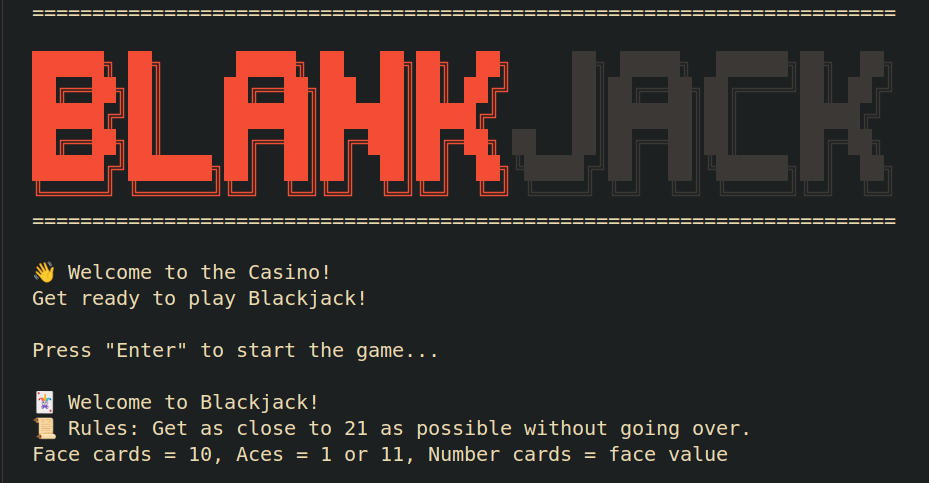
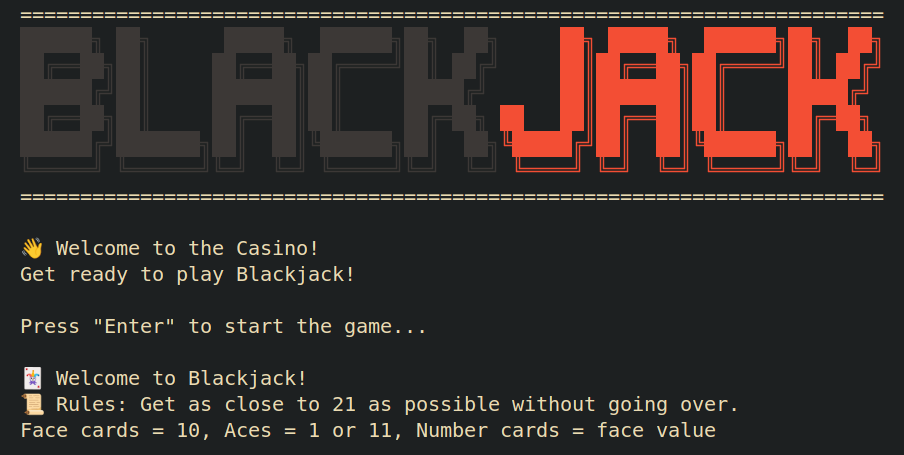
docs: Change 'BLANKJACK' to 'BLACKJACK' title.

diff --git a/main.py b/main.py
@@ -9,13 +9,12 @@ def display_title():
 
     # Display top and bottom border lines
     print("=" * 72)
-    print(f"""
-{RED}██████╗ ██╗      █████╗ ██   ██╗██╗  ██╗{RESET}{BLACK}     ██╗ █████╗  ██████╗██╗  ██╗{RESET}
-{RED}██╔══██╗██║     ██╔══██╗███  ██║██║ ██╔╝{RESET}{BLACK}     ██║██╔══██╗██╔════╝██║ ██╔╝{RESET}
-{RED}██████╔╝██║     ███████║███████║█████╔╝ {RESET}{BLACK}     ██║███████║██║     █████╔╝ {RESET}
-{RED}██╔══██╗██║     ██╔══██║██╔═███║██╔═██╗ {RESET}{BLACK}██   ██║██╔══██║██║     ██╔═██╗ {RESET}
-{RED}██████╔╝███████╗██║  ██║██║  ██║██║  ██╗{RESET}{BLACK}╚█████╔╝██║  ██║╚██████╗██║  ██╗{RESET}
-{RED}╚═════╝ ╚══════╝╚═╝  ╚═╝╚═╝  ╚═╝╚═╝  ╚═╝{RESET}{BLACK} ╚════╝ ╚═╝  ╚═╝ ╚═════╝╚═╝  ╚═╝{RESET}""")
+    print(f"""{BLACK}██████╗ ██╗      █████╗  ██████╗██╗  ██╗{RESET}{RED}     ██╗ █████╗  ██████╗██╗  ██╗{RESET}
+{BLACK}██╔══██╗██║     ██╔══██╗██╔════╝██║ ██╔╝{RESET}{RED}     ██║██╔══██╗██╔════╝██║ ██╔╝{RESET}
+{BLACK}██████╔╝██║     ███████║██║     █████╔╝ {RESET}{RED}     ██║███████║██║     █████╔╝ {RESET}
+{BLACK}██╔══██╗██║     ██╔══██║██║     ██╔═██╗ {RESET}{RED}██   ██║██╔══██║██║     ██╔═██╗ {RESET}
+{BLACK}██████╔╝███████╗██║  ██║╚██████╗██║  ██╗{RESET}{RED}╚█████╔╝██║  ██║╚██████╗██║  ██╗{RESET}
+{BLACK}╚═════╝ ╚══════╝╚═╝  ╚═╝ ╚═════╝╚═╝  ╚═╝{RESET}{RED} ╚════╝ ╚═╝  ╚═╝ ╚═════╝╚═╝  ╚═╝{RESET}""")
     # Display bottom border line
     print("=" * 72)
 
